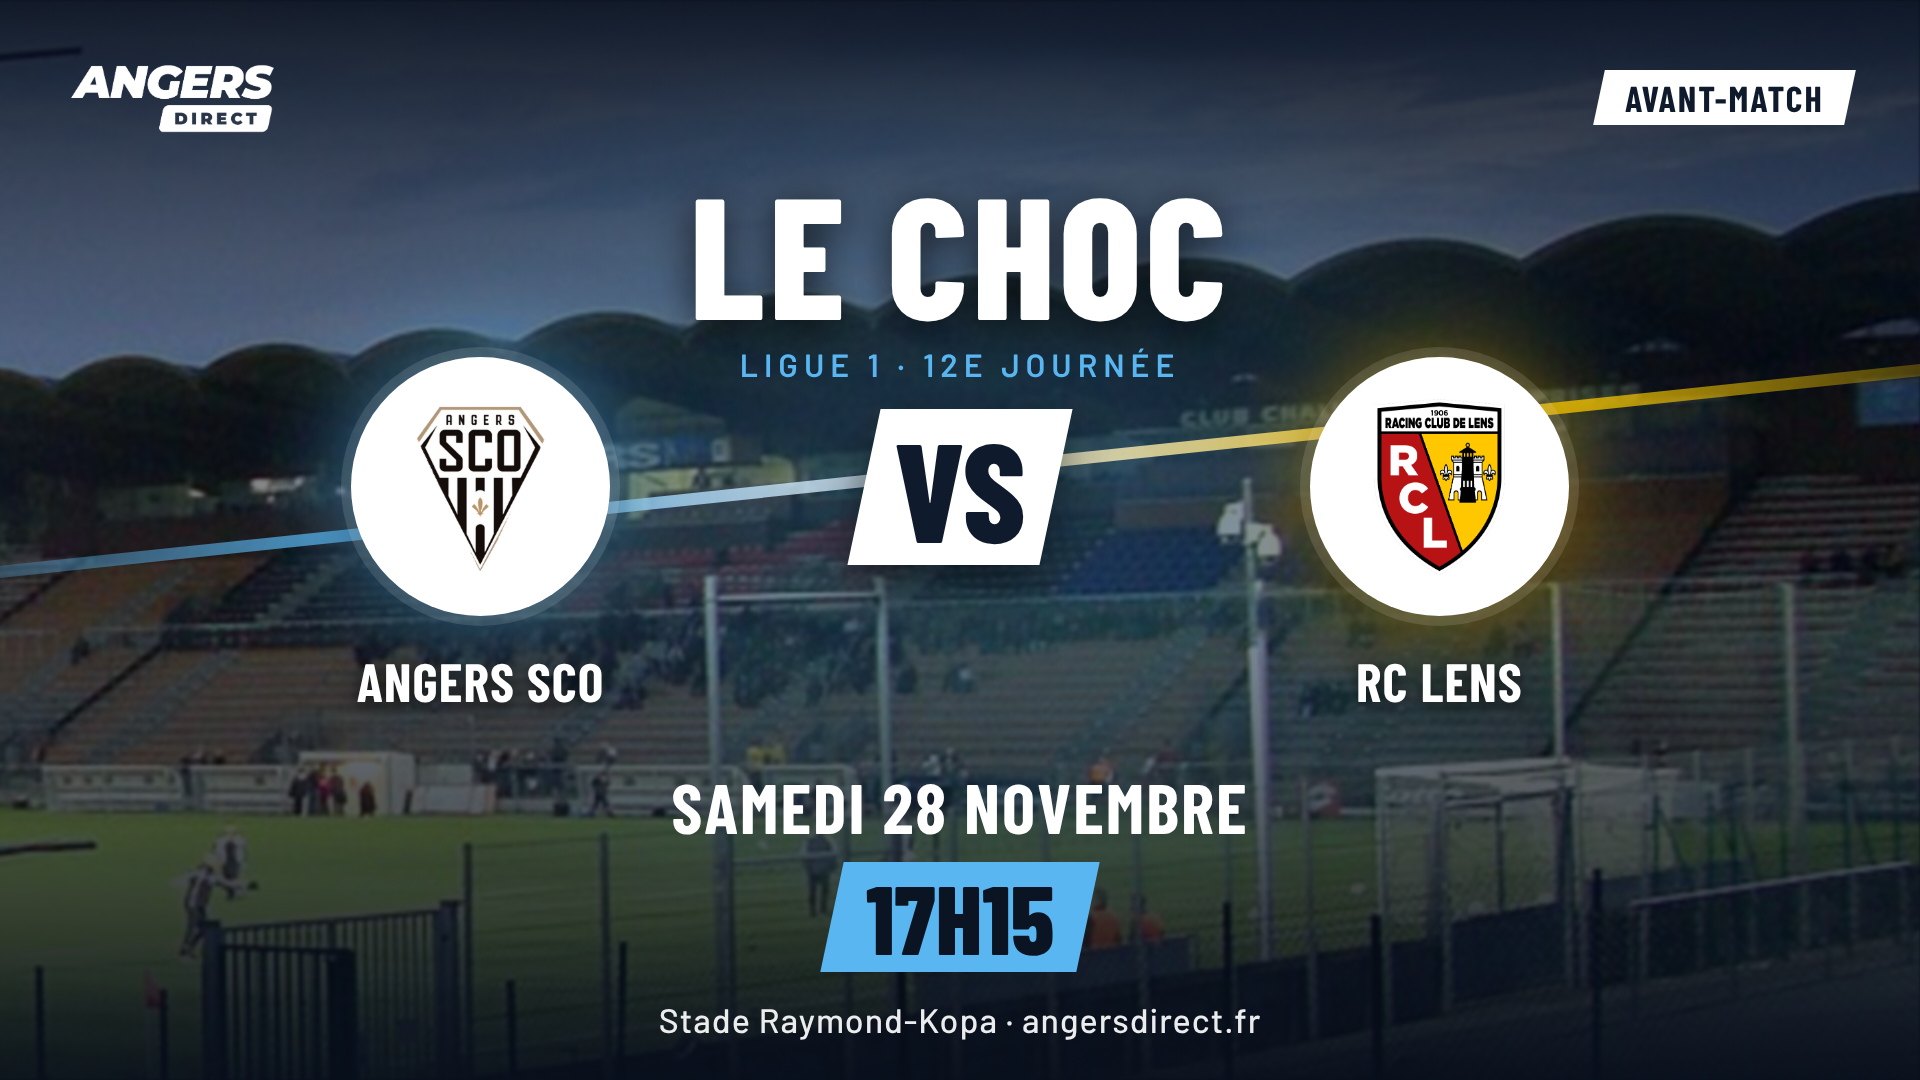
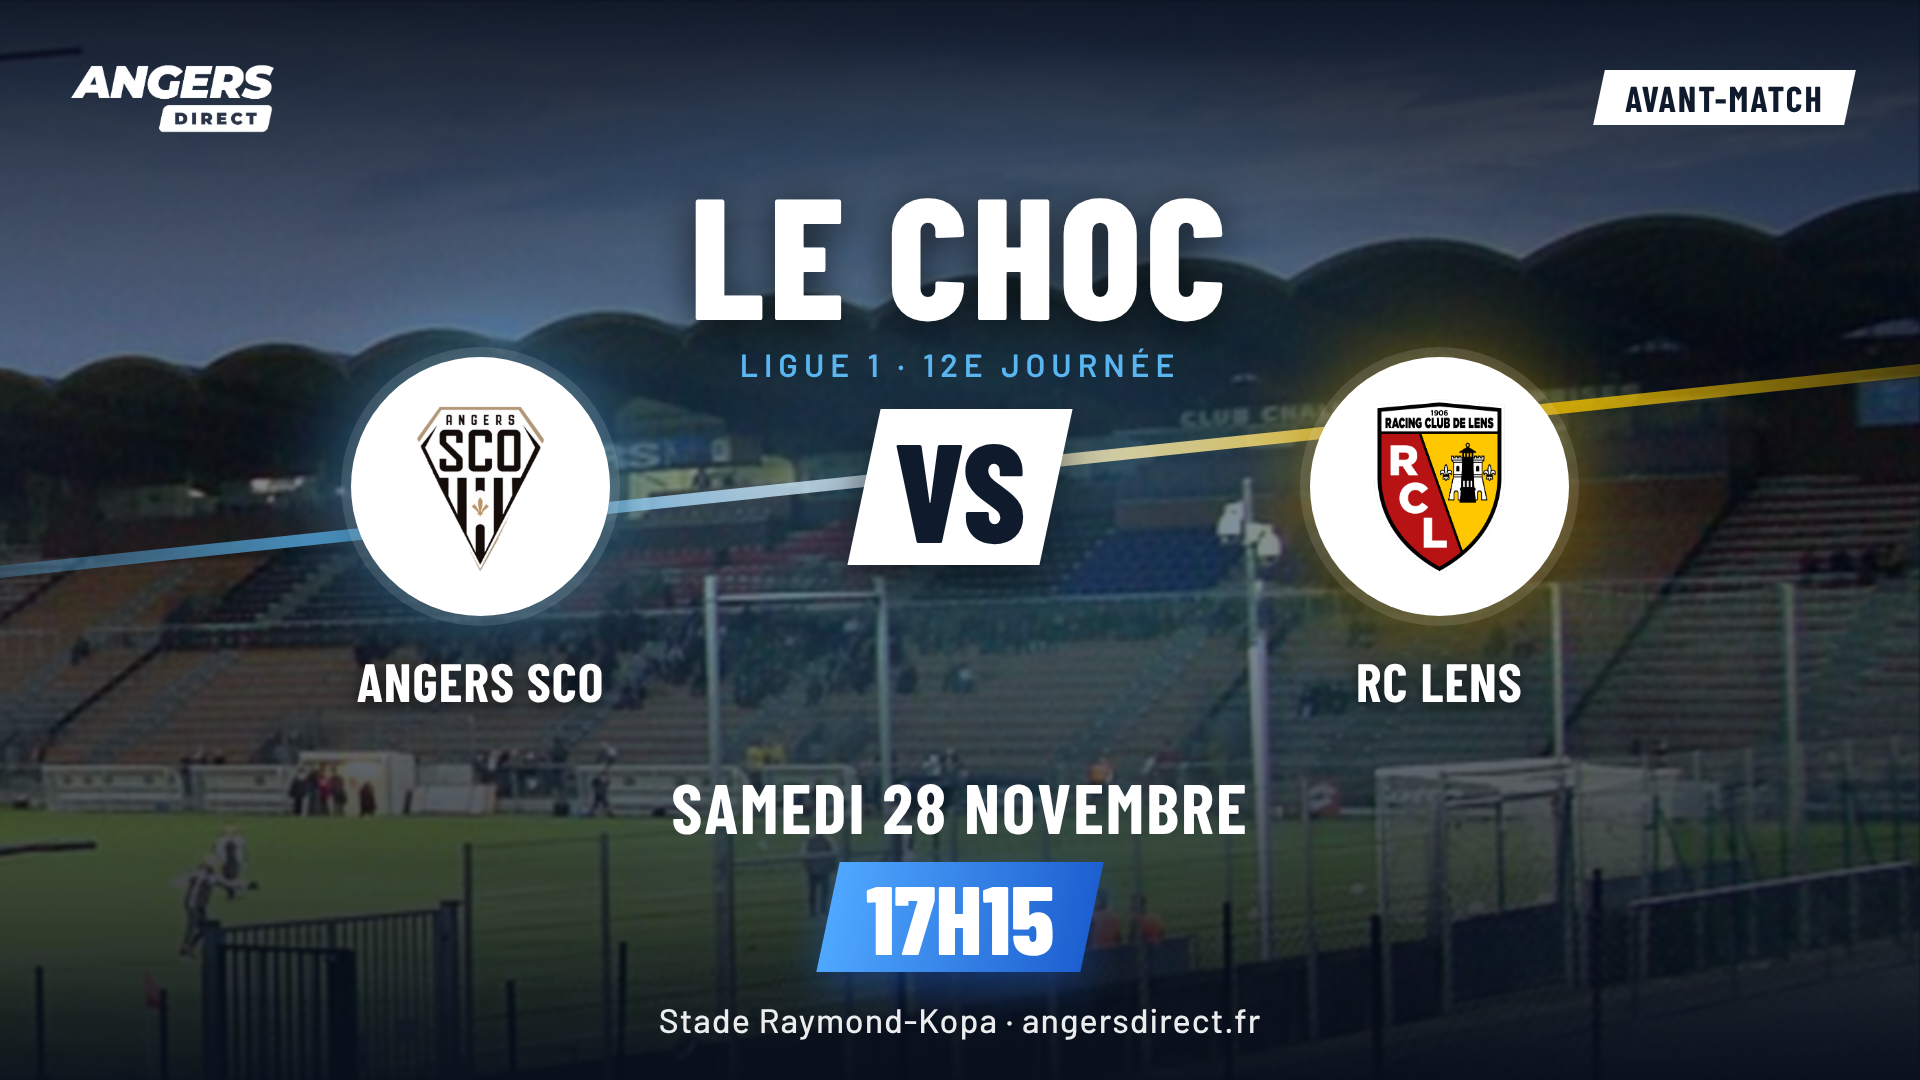
Choc SCO-Lens : étiquette horaire en dégradé bleu Angers Direct
Claude-Session: https://claude.ai/code/session_01ShcrTswhZu9rDc4mz55fwo

Changed region(s): [[0.4062, 0.7944, 0.5938, 0.9472]]

diff --git a/outils/choc.py b/outils/choc.py
@@ -72,8 +72,8 @@ def page(f):
   </div>
   <div style="position:absolute;left:0;right:0;bottom:{bas_infos}px;text-align:center">
     <div style="font-family:'Barlow Condensed';font-weight:700;font-size:{int(t*(0.065 if paysage else 0.075))}px;line-height:1;letter-spacing:2px">{e(f['date'])}</div>
-    <div style="display:inline-block;margin-top:{int(t*0.02)}px;padding:4px 34px;background:#5AB6F1;transform:skewX(-12deg)">
-      <div style="transform:skewX(12deg);font-family:'Barlow Condensed';font-weight:800;font-size:{int(t*(0.09 if paysage else 0.11))}px;line-height:1.05;color:#0B1422">{e(f['heure'])}</div></div>
+    <div style="display:inline-block;margin-top:{int(t*0.02)}px;padding:4px 38px;background:linear-gradient(90deg,#4FA8FF 0%,#1D5FD0 100%);transform:skewX(-12deg);box-shadow:0 14px 40px rgba(29,95,208,0.45)">
+      <div style="transform:skewX(12deg);font-family:'Barlow Condensed';font-weight:800;font-size:{int(t*(0.09 if paysage else 0.11))}px;line-height:1.05;color:#FFFFFF">{e(f['heure'])}</div></div>
     <div style="margin-top:{int(t*0.025)}px;font-family:Barlow;font-weight:500;font-size:{int(t*0.032)}px;letter-spacing:1px;opacity:0.92">{e(f['stade'])} · angersdirect.fr</div>
   </div>
 </div></body></html>'''
